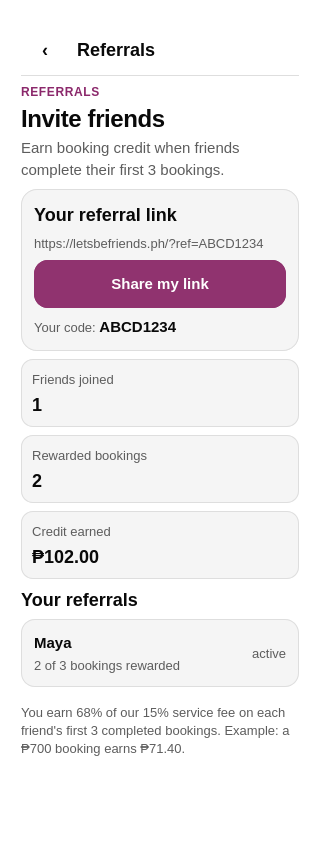
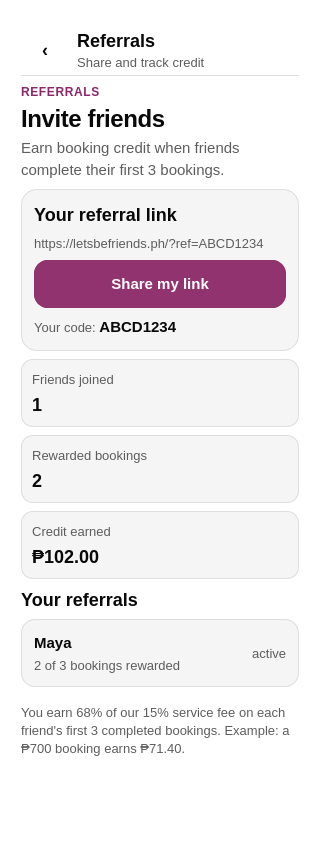
fix(mobile): add referrals header subtitle

Changed region(s): [[0.2188, 0.0308, 0.5312, 0.0924], [0.5625, 0.0616, 0.625, 0.0924]]

diff --git a/apps/mobile/src/features/referral/ReferralsView.tsx b/apps/mobile/src/features/referral/ReferralsView.tsx
@@ -51,7 +51,7 @@ export function ReferralsView({
 
   const header = (
     <View style={styles.header}>
-      <AppHeader title="Referrals" back onBack={onBack} />
+      <AppHeader title="Referrals" subtitle="Share and track credit" back onBack={onBack} />
       <View style={styles.headerCopy}>
         <AppText variant="label" color={theme.colors.socialText}>REFERRALS</AppText>
         <AppText variant="title">Invite friends</AppText>
